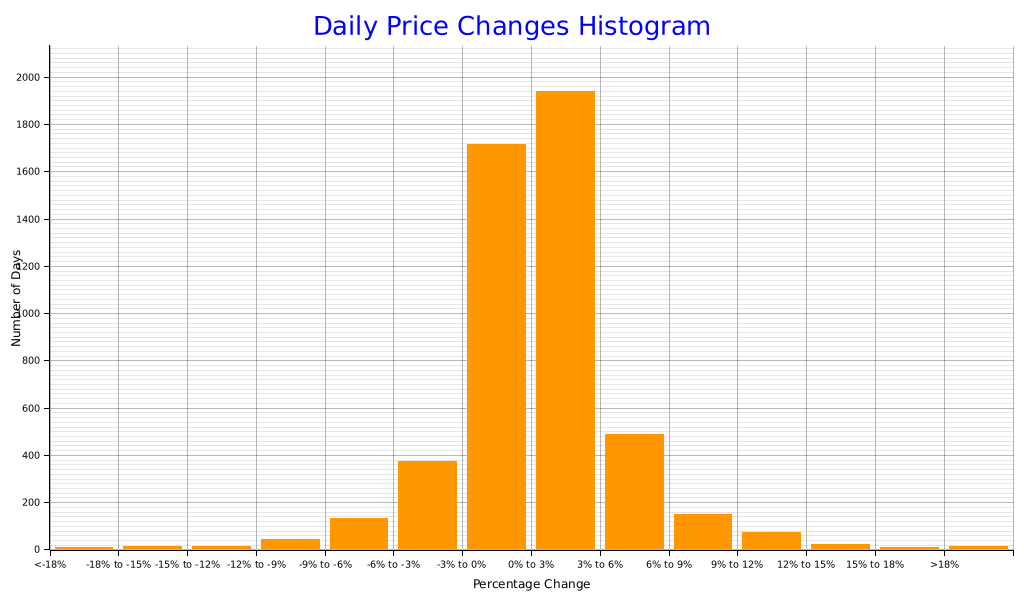
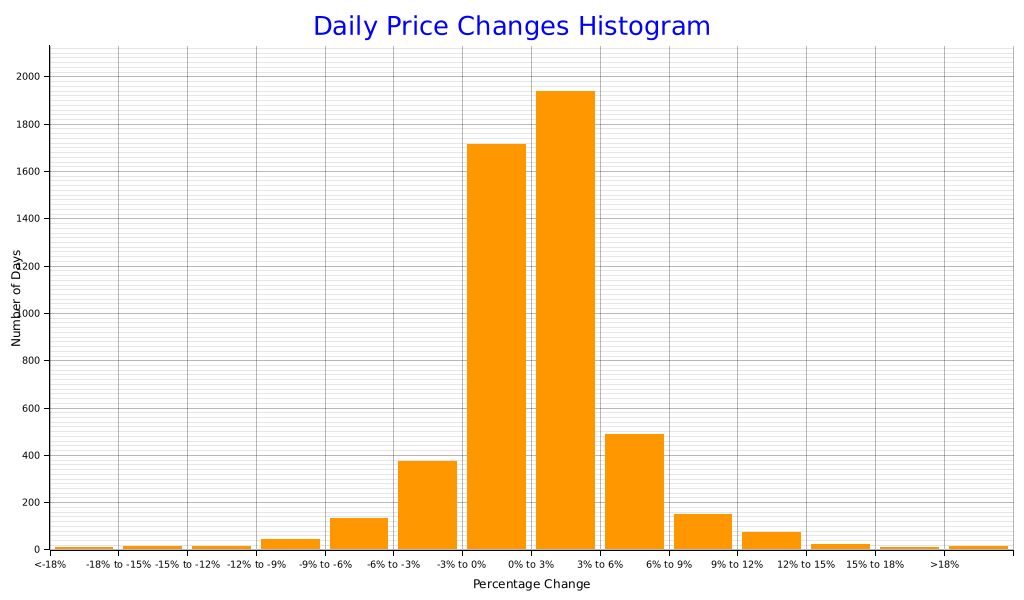
deploy: 9e9e5e69465e6e2aed0a6f6c9422689534c87eb3

diff --git a/index.html b/index.html
@@ -34,7 +34,7 @@
           <td>124,457.11</td>
           <td>74,436.67</td>
           <td></td>
-          <td>11,049,020,424,192.0</td>
+          <td>11,046,821,560,320.0</td>
         </tr>
         <tr>
           <td class='yearly-summary-year'>2024</td>
@@ -186,11 +186,11 @@
         </tr>
         <tr>
           <td>-3% to 0%</td>
-          <td>1715</td>
+          <td>1716</td>
         </tr>
         <tr>
           <td>0% to 3%</td>
-          <td>1938</td>
+          <td>1937</td>
         </tr>
         <tr>
           <td>3% to 6%</td>
@@ -227,7 +227,7 @@
     <br><br>
     <a href='https://github.com/bitcoin-tools/btracker'>Link to the report codebase</a>
     <br><br>
-    This report was last updated at 2025-08-15 13:22:50.039403597 UTC.
+    This report was last updated at 2025-08-15 13:48:45.791413513 UTC.
     <br><br>
     <div class='scrollable-table'>
       <table>
@@ -250,13 +250,13 @@
             <td>2025-08-15</td>
             <td>118,382.60</td>
             <td>119,317.13</td>
-            <td>118,169.29</td>
-            <td>118,598.04</td>
-            <td class='wma-column'>51,441.89</td>
-            <td>40.72 (0.07 %)</td>
-            <td>57,004.09 (92.5 %)</td>
-            <td>1,147.83 (0.9 %)</td>
-            <td>238.46 (0.2 %)</td>
+            <td>118,040.12</td>
+            <td>118,040.12</td>
+            <td class='wma-column'>51,441.50</td>
+            <td>40.32 (0.07 %)</td>
+            <td>56,446.17 (91.6 %)</td>
+            <td>1,277.00 (1.0 %)</td>
+            <td>-319.45 (0.2 %)</td>
           </tr>
           <tr>
             <td>2025-08-14</td>
